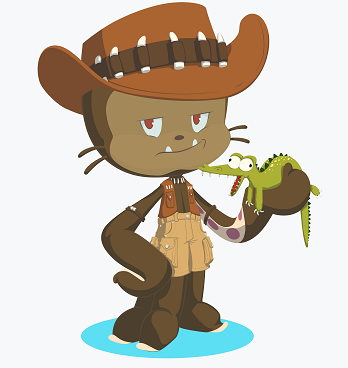
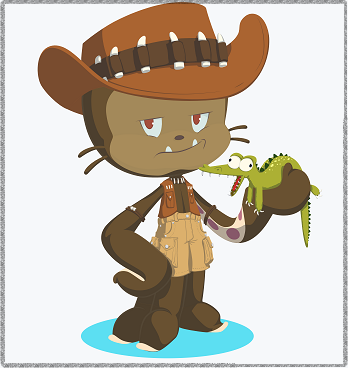
Added border to Octocat

Changed region(s): [[0.0, 0.0, 1.0, 1.0]]

diff --git a/index.html b/index.html
@@ -10,7 +10,7 @@
 
 	<h1>The Biologist Who Codes</h1>
 
-<img src="images/Profile Pic.png">
+<img src="Profile Pic.jpg">
 
 <h5>Orcid is a platform for uniquely identifying researchers in the sciences. 
 <a href="https://orcid.org/0000-0002-1806-7540">My Orcid Profile</a></h5>
